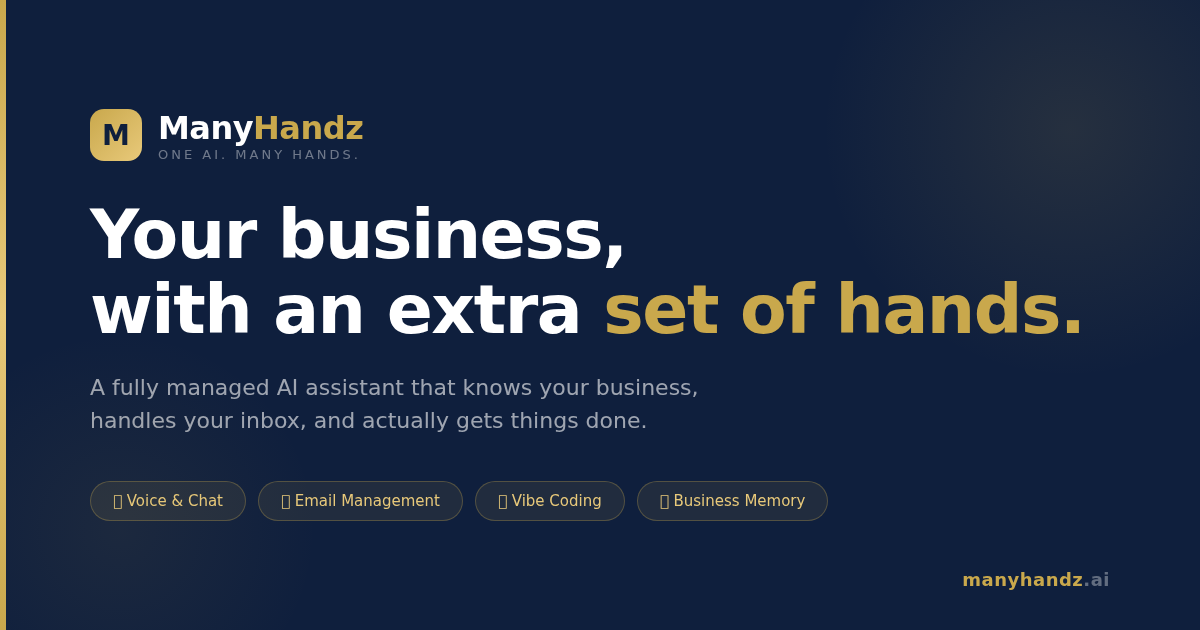
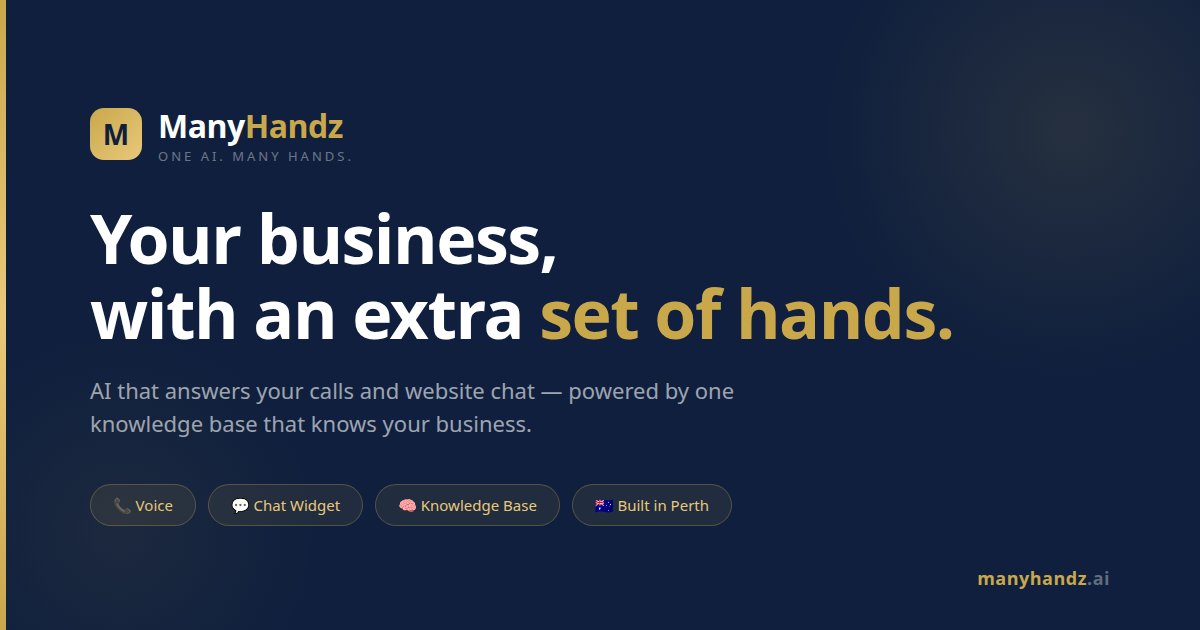
Remove DraftPilot from landing — phone answering and website chat
ManyHandz is now positioned as AI phone answering plus website chat,
both powered by one knowledge base. Hero, products, process, FAQs,
testimonials, schema, and OG image no longer mention DraftPilot or
inbox drafting. A short FAQ notes Grok Bot can use the same knowledge
base with the customer's own Gmail.

diff --git a/index.html b/index.html
@@ -3,23 +3,23 @@
 <head>
   <meta charset="UTF-8" />
   <meta name="viewport" content="width=device-width, initial-scale=1.0" />
-  <title>ManyHandz — Your AI team. One setup, every channel.</title>
-  <meta name="description" content="ManyHandz handles your calls, emails, and website chat — powered by one AI that actually knows your business. Set up in under 5 minutes.">
+  <title>ManyHandz — AI phone answering and website chat</title>
+  <meta name="description" content="ManyHandz handles your calls and website chat — powered by one AI that actually knows your business. Set up in under 5 minutes.">
   <link rel="canonical" href="https://manyhandz.ai/">
 
   <!-- Open Graph -->
   <meta property="og:type" content="website">
   <meta property="og:url" content="https://manyhandz.ai/">
-  <meta property="og:title" content="ManyHandz — Your AI team. One setup, every channel.">
-  <meta property="og:description" content="ManyHandz handles your calls, emails, and website chat — powered by one AI that actually knows your business.">
+  <meta property="og:title" content="ManyHandz — AI phone answering and website chat">
+  <meta property="og:description" content="ManyHandz handles your calls and website chat — powered by one AI that actually knows your business.">
   <meta property="og:image" content="https://manyhandz.ai/og-image.png">
   <meta property="og:image:width" content="1200">
   <meta property="og:image:height" content="630">
 
   <!-- Twitter Card -->
   <meta name="twitter:card" content="summary_large_image">
-  <meta name="twitter:title" content="ManyHandz — Your AI team. One setup, every channel.">
-  <meta name="twitter:description" content="ManyHandz handles your calls, emails, and website chat — powered by one AI that actually knows your business.">
+  <meta name="twitter:title" content="ManyHandz — AI phone answering and website chat">
+  <meta name="twitter:description" content="ManyHandz handles your calls and website chat — powered by one AI that actually knows your business.">
   <meta name="twitter:image" content="https://manyhandz.ai/og-image.png">
 
   <link rel="preconnect" href="https://fonts.googleapis.com" />
@@ -658,7 +658,7 @@
     <div class="nav-inner">
       <a href="/" class="nav-logo">ManyHandz<span class="dot">.</span></a>
       <div class="nav-links">
-        <a href="#features">Features</a>
+        <a href="#products">Features</a>
         <a href="#how-it-works">How it works</a>
         <a href="#pricing">Pricing</a>
         <a href="#contact">Contact</a>
@@ -671,7 +671,7 @@
     </div>
   </div>
   <div class="mobile-menu" id="mobile-menu">
-    <a href="#features">Features</a>
+    <a href="#products">Features</a>
     <a href="#how-it-works">How it works</a>
     <a href="#pricing">Pricing</a>
     <a href="#contact">Contact</a>
@@ -696,13 +696,13 @@
       </div>
 
       <h1>
-        <span class="visually-hidden">ManyHandz — Your AI team. One setup, every channel.</span>
+        <span class="visually-hidden">ManyHandz — AI phone answering and website chat. One knowledge base.</span>
         <span aria-hidden="true">Your AI team.<br>
-        <span class="gold-text">One setup, every channel.</span></span>
+        <span class="gold-text">Calls and chat. One setup.</span></span>
       </h1>
 
       <p class="hero-sub">
-        ManyHandz handles your calls, emails, and website chat — powered by one AI that actually knows your business. Set up in under 5 minutes.
+        ManyHandz handles your calls and website chat — powered by one AI that actually knows your business. Set up in under 5 minutes.
       </p>
 
       <div class="hero-ctas">
@@ -751,7 +751,6 @@
         <h3>Sound familiar?</h3>
         <ul>
           <li>Missed calls costing you customers</li>
-          <li>Emails piling up — hours wasted on replies</li>
           <li>Website visitors leaving without making contact</li>
           <li>Paying for a receptionist you can't afford full-time</li>
           <li>Generic chatbots that frustrate more than they help</li>
@@ -761,9 +760,8 @@
         <h3>ManyHandz fixes all of it.</h3>
         <ul>
           <li><strong>AI answers your calls 24/7</strong> — screens, takes messages, transfers VIPs</li>
-          <li><strong>Drafts your email replies</strong> — in your tone, ready to send</li>
           <li><strong>Chat widget on your website</strong> — answers visitor questions instantly</li>
-          <li><strong>One knowledge base</strong> — set up once, works across every channel</li>
+          <li><strong>One knowledge base</strong> — set up once, works for phone and chat</li>
           <li><strong>Set up in 5 minutes</strong> — we scan your website and do the rest</li>
         </ul>
       </div>
@@ -776,8 +774,8 @@
   <div class="container">
     <div class="section-header reveal">
       <span class="section-eyebrow">Products</span>
-      <h2>Three products. One knowledge base.</h2>
-      <p>Set up your business info once — your AI uses it across every channel.</p>
+      <h2>Voice, chat, and one knowledge base.</h2>
+      <p>Set up your business info once — your AI uses it to answer the phone and your website chat.</p>
     </div>
     <div class="features-grid">
       <div class="feature-card reveal reveal-delay-1">
@@ -786,19 +784,19 @@
         <p>AI answers your phone calls 24/7. Screens callers, handles FAQs, takes messages, and transfers important calls directly to you.</p>
       </div>
       <div class="feature-card reveal reveal-delay-2">
-        <span class="feature-icon">📧</span>
-        <h3>DraftPilot</h3>
-        <p>AI drafts email replies in your tone. Reviews your inbox, understands context, and writes responses you can send with one click.</p>
-      </div>
-      <div class="feature-card reveal reveal-delay-3">
         <span class="feature-icon">💬</span>
         <h3>Chat Widget</h3>
         <p>AI chat on your website. Answers visitor questions instantly using your knowledge base. Hands off to a human when needed.</p>
       </div>
-      <div class="feature-card reveal reveal-delay-1">
+      <div class="feature-card reveal reveal-delay-3">
         <span class="feature-icon">🧠</span>
         <h3>One Knowledge Base</h3>
-        <p>Your services, FAQs, hours, and tone — set up once. Every product draws from the same source of truth about your business.</p>
+        <p>Your services, FAQs, hours, and tone — set up once in the ManyHandz dashboard. Voice and chat both draw from the same source of truth.</p>
+      </div>
+      <div class="feature-card reveal reveal-delay-1">
+        <span class="feature-icon">📱</span>
+        <h3>AU Phone Numbers</h3>
+        <p>Dedicated Australian numbers for your business. Callers get a local answer that knows your hours, services, and how you work.</p>
       </div>
       <div class="feature-card reveal reveal-delay-2">
         <span class="feature-icon">🔒</span>
@@ -835,13 +833,13 @@
       </div>
       <div class="step reveal reveal-delay-3">
         <div class="step-num">3</div>
-        <h3>Connect your channels</h3>
-        <p>Pick Voice, Email, or Chat. We'll give you a phone number, connect your inbox, or hand you a code snippet.</p>
+        <h3>Go live on phone and chat</h3>
+        <p>We'll issue an Australian phone number and/or hand you a chat widget snippet to drop on your site.</p>
       </div>
       <div class="step reveal reveal-delay-4">
         <div class="step-num">4</div>
         <h3>Done</h3>
-        <p>Your AI is live — answering calls, drafting emails, and chatting with visitors. You focus on running your business.</p>
+        <p>Your AI is live — answering calls and chatting with website visitors. You focus on running your business.</p>
       </div>
     </div>
   </div>
@@ -920,7 +918,7 @@
     <div class="testimonials-grid">
       <div class="testimonial-card reveal reveal-delay-1">
         <div class="stars">★★★★★</div>
-        <blockquote>"It actually knows how I write. The first email draft it sent on my behalf, my client thought it was me. That's when I knew this was different."</blockquote>
+        <blockquote>"I was missing jobs because I couldn't get to the phone on site. Now every call gets answered — and I get the message while I'm still on the tools. That's when I knew this was different."</blockquote>
         <div class="testimonial-author">Sarah M.</div>
         <div class="testimonial-business">Operations Manager, Perth</div>
       </div>
@@ -932,7 +930,7 @@
       </div>
       <div class="testimonial-card reveal reveal-delay-3">
         <div class="stars">★★★★★</div>
-        <blockquote>"The setup was literally 5 minutes. It connected to my email, learned my business, and started helping me the same day. No faff."</blockquote>
+        <blockquote>"The setup was literally 5 minutes. It scanned our website, learned the business, and started answering the phones the same day. No faff."</blockquote>
         <div class="testimonial-author">Leanne B.</div>
         <div class="testimonial-business">Consultant, Australia</div>
       </div>
@@ -955,7 +953,7 @@
           <span class="faq-icon">+</span>
         </button>
         <div class="faq-answer" role="region">
-          <p>ManyHandz gives your business an AI team that handles phone calls, email replies, and website chat — all powered by one knowledge base that knows your business inside out. Set up in under 5 minutes.</p>
+          <p>ManyHandz is an AI phone answering service and website chat widget — both powered by one knowledge base that knows your business inside out. Set up in under 5 minutes.</p>
         </div>
       </div>
 
@@ -965,7 +963,7 @@
           <span class="faq-icon">+</span>
         </button>
         <div class="faq-answer" role="region">
-          <p>Yes. Your AI answers calls, drafts emails, and chats with website visitors around the clock — even when you're asleep, on holiday, or just busy.</p>
+          <p>Yes. Your AI answers calls and chats with website visitors around the clock — even when you're asleep, on holiday, or just busy.</p>
         </div>
       </div>
 
@@ -975,7 +973,7 @@
           <span class="faq-icon">+</span>
         </button>
         <div class="faq-answer" role="region">
-          <p>ManyHandz answers your phone calls 24/7, drafts email replies in your tone, and chats with website visitors — all using a knowledge base that knows your services, hours, FAQs, and how you like to communicate.</p>
+          <p>ManyHandz answers your phone calls 24/7 and chats with website visitors — all using a knowledge base that knows your services, hours, FAQs, and how you like to communicate.</p>
         </div>
       </div>
 
@@ -995,7 +993,7 @@
           <span class="faq-icon">+</span>
         </button>
         <div class="faq-answer" role="region">
-          <p>Most customers are up and running in under 5 minutes. There's nothing to install or configure — you sign up, tell your AI about your business, connect your tools, and you're live.</p>
+          <p>Most customers are up and running in under 5 minutes. There's nothing to install or configure — you sign up, we scan your website, and you're live with a phone number and/or chat snippet.</p>
         </div>
       </div>
 
@@ -1016,6 +1014,16 @@
         </button>
         <div class="faq-answer" role="region">
           <p>Yes. No lock-in contracts, no cancellation fees. Cancel any time and your data will be permanently deleted on request.</p>
+        </div>
+      </div>
+
+      <div class="faq-item reveal reveal-delay-3">
+        <button class="faq-question" aria-expanded="false">
+          Can I use Grok Bot with my own Gmail?
+          <span class="faq-icon">+</span>
+        </button>
+        <div class="faq-answer" role="region">
+          <p>Yes. ManyHandz is phone answering and website chat. If you use Grok Bot with your own Gmail, you can connect ManyHandz so Grok uses the same knowledge base for inbox work.</p>
         </div>
       </div>
 
@@ -1137,11 +1145,12 @@
   });
 
   /* ===== TYPEWRITER ===== */
-  const words = ['your inbox', 'your calendar', 'your clients', 'your workflow', 'your business']; // typewriter disabled in favour of static hero
+  const words = ['your phones', 'your website', 'your clients', 'your workflow', 'your business']; // typewriter disabled in favour of static hero
   const el = document.getElementById('typewriter');
   let wordIdx = 0, charIdx = 0, deleting = false;
 
   function type() {
+    if (!el) return;
     const word = words[wordIdx];
     if (!deleting) {
       el.textContent = word.slice(0, ++charIdx);
@@ -1295,7 +1304,7 @@
     "name": "ManyHandz",
     "url": "https://manyhandz.ai",
     "logo": "https://manyhandz.ai/og-image.png",
-    "description": "AI-powered voice, email, and chat for Australian small businesses. One knowledge base, every channel. Set up in under 5 minutes.",
+    "description": "AI phone answering and website chat for Australian small businesses. One knowledge base. Set up in under 5 minutes.",
     "foundingLocation": {
       "@type": "Place",
       "name": "Perth, Western Australia, Australia"
@@ -1314,7 +1323,7 @@
     "name": "ManyHandz",
     "applicationCategory": "BusinessApplication",
     "operatingSystem": "Web",
-    "description": "AI that answers your calls, drafts your emails, and chats with your website visitors — powered by one knowledge base that knows your business.",
+    "description": "AI that answers your calls and chats with your website visitors — powered by one knowledge base that knows your business.",
     "url": "https://manyhandz.ai",
     "offers": [
       {
@@ -1347,7 +1356,7 @@
         "name": "What is ManyHandz?",
         "acceptedAnswer": {
           "@type": "Answer",
-          "text": "ManyHandz gives your business an AI team that handles phone calls, email replies, and website chat — all powered by one knowledge base that knows your business inside out. Set up in under 5 minutes."
+          "text": "ManyHandz is an AI phone answering service and website chat widget — both powered by one knowledge base that knows your business inside out. Set up in under 5 minutes."
         }
       },
       {
@@ -1355,7 +1364,7 @@
         "name": "Does ManyHandz work when I'm not online?",
         "acceptedAnswer": {
           "@type": "Answer",
-          "text": "Yes. Your AI answers calls, drafts emails, and chats with website visitors around the clock — even when you're asleep, on holiday, or just busy."
+          "text": "Yes. Your AI answers calls and chats with website visitors around the clock — even when you're asleep, on holiday, or just busy."
         }
       },
       {
@@ -1371,7 +1380,7 @@
         "name": "How long does setup take?",
         "acceptedAnswer": {
           "@type": "Answer",
-          "text": "Most customers are up and running in under 5 minutes. There's nothing to install or configure — you sign up, tell your AI about your business, connect your tools, and you're live."
+          "text": "Most customers are up and running in under 5 minutes. There's nothing to install or configure — you sign up, we scan your website, and you're live with a phone number and/or chat snippet."
         }
       },
       {
@@ -1387,7 +1396,7 @@
         "name": "What can ManyHandz actually do for my business?",
         "acceptedAnswer": {
           "@type": "Answer",
-          "text": "ManyHandz answers your phone calls 24/7, drafts email replies in your tone, and chats with website visitors — all using a knowledge base that knows your services, hours, FAQs, and how you like to communicate."
+          "text": "ManyHandz answers your phone calls 24/7 and chats with website visitors — all using a knowledge base that knows your services, hours, FAQs, and how you like to communicate."
         }
       },
       {
@@ -1396,6 +1405,14 @@
         "acceptedAnswer": {
           "@type": "Answer",
           "text": "Yes. There are no lock-in contracts. You can cancel your ManyHandz subscription at any time and your data will be permanently deleted on request."
+        }
+      },
+      {
+        "@type": "Question",
+        "name": "Can I use Grok Bot with my own Gmail?",
+        "acceptedAnswer": {
+          "@type": "Answer",
+          "text": "Yes. ManyHandz is phone answering and website chat. If you use Grok Bot with your own Gmail, you can connect ManyHandz so Grok uses the same knowledge base for inbox work."
         }
       }
     ]

diff --git a/terms.html b/terms.html
@@ -76,7 +76,7 @@
     <h2>8. AI Assistant — User Responsibility</h2>
     <p>The AI assistant provided through ManyHandz is a tool to assist you, not a replacement for your own judgement and professional expertise. By using the Service, you acknowledge and agree to the following:</p>
     <ul>
-      <li><strong>You are responsible for reviewing all AI output</strong> before publishing, sending, or acting on it. This includes but is not limited to: emails, quotes, invoices, reports, responses to customers, and any other content generated by the assistant.</li>
+      <li><strong>You are responsible for reviewing all AI output</strong> before publishing, sending, or acting on it. This includes but is not limited to: call summaries, chat replies, quotes, invoices, reports, responses to customers, and any other content generated by the assistant.</li>
       <li><strong>ManyHandz accepts no liability</strong> for errors, omissions, inaccuracies, or any consequences arising from actions taken based on AI-generated content without your independent verification.</li>
       <li><strong>The assistant's knowledge is limited to what you provide.</strong> The AI can only work with the information, instructions, and data you supply. It has no independent knowledge of your business, customers, industry regulations, or legal requirements unless you explicitly provide this context. The quality and accuracy of its output depends entirely on the quality of information you give it.</li>
       <li><strong>The assistant may make mistakes.</strong> AI systems can produce incorrect, outdated, or inappropriate responses. Always apply your own professional judgement before acting on any recommendation or output.</li>

diff --git a/og-image-source.html b/og-image-source.html
@@ -143,13 +143,13 @@
 
   <h1>Your business,<br>with an extra <em>set of hands.</em></h1>
 
-  <p class="sub">A fully managed AI assistant that knows your business, handles your inbox, and actually gets things done.</p>
+  <p class="sub">AI that answers your calls and website chat — powered by one knowledge base that knows your business.</p>
 
   <div class="pills">
-    <div class="pill">💬 Voice & Chat</div>
-    <div class="pill">📧 Email Management</div>
-    <div class="pill">💻 Vibe Coding</div>
-    <div class="pill">🧠 Business Memory</div>
+    <div class="pill">📞 Voice</div>
+    <div class="pill">💬 Chat Widget</div>
+    <div class="pill">🧠 Knowledge Base</div>
+    <div class="pill">🇦🇺 Built in Perth</div>
   </div>
 
   <div class="url"><span>manyhandz</span>.ai</div>
